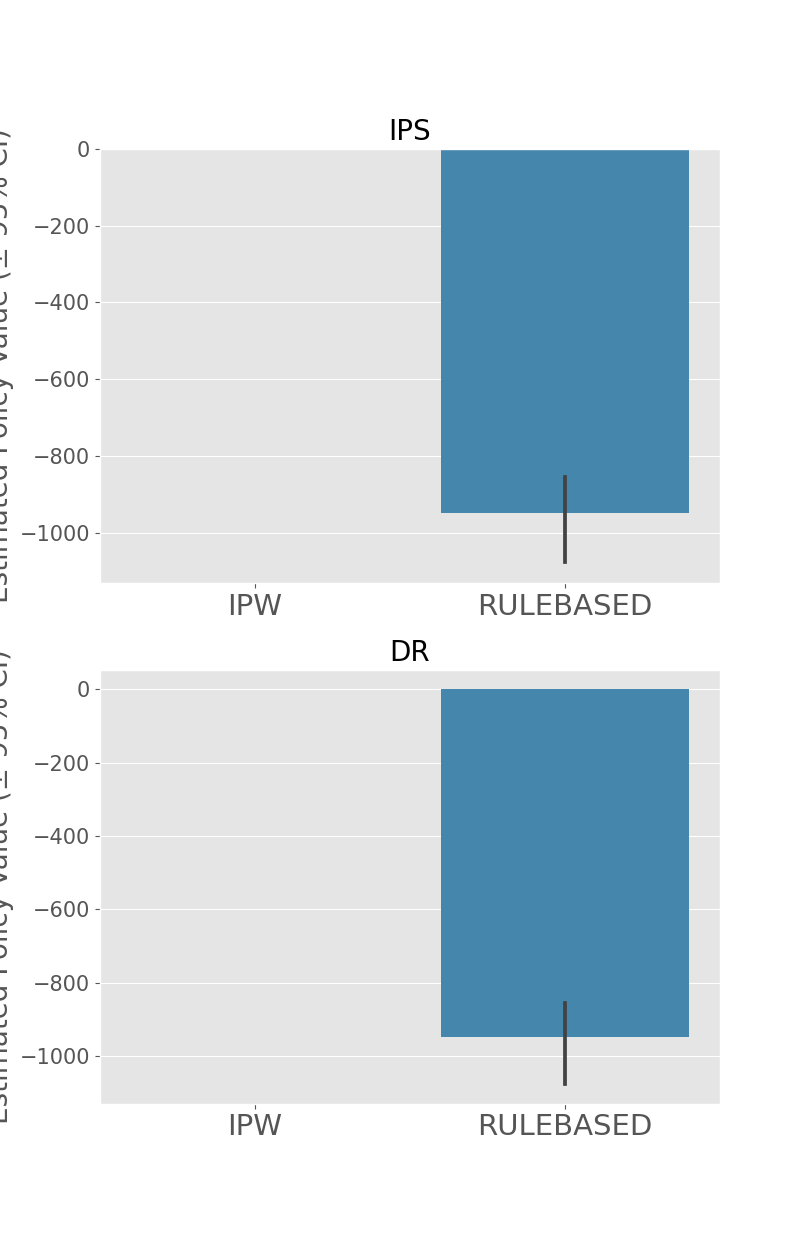
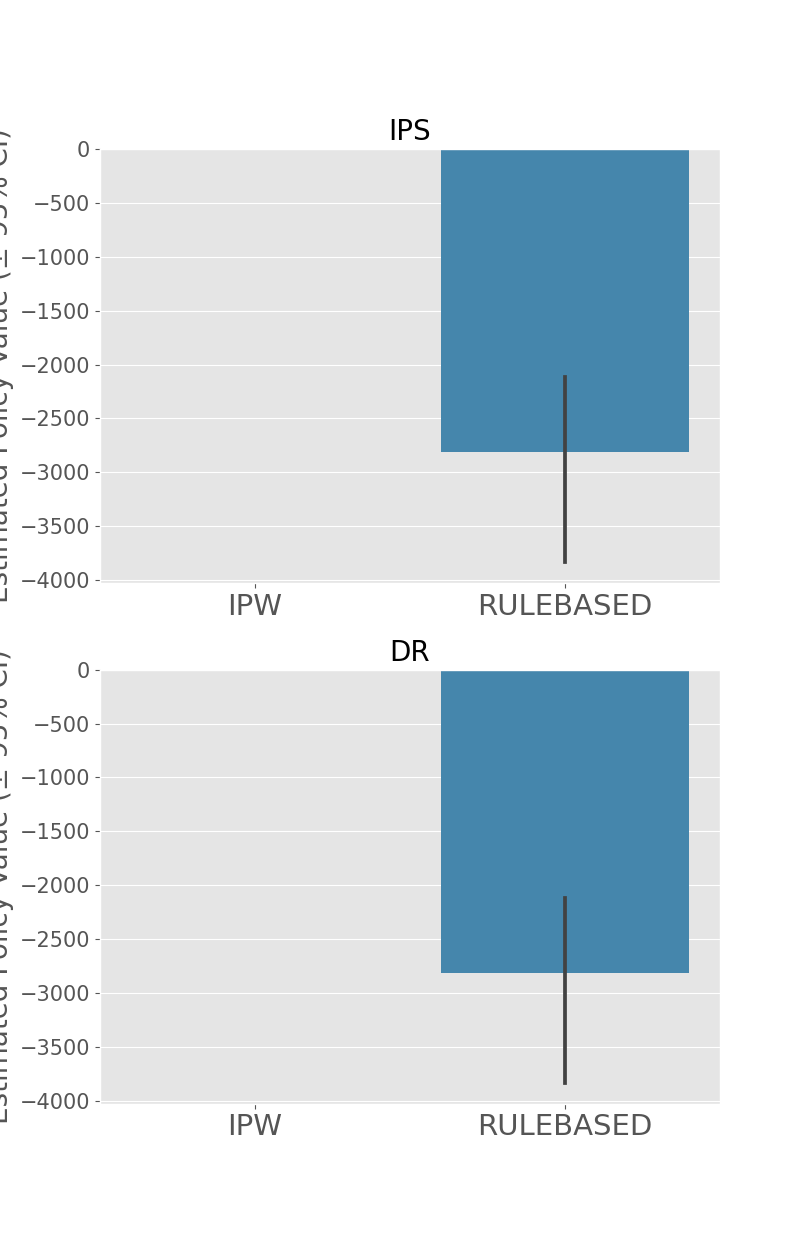
パラメータ調整

diff --git a/pokemon_ml_design/evaluate.py b/pokemon_ml_design/evaluate.py
@@ -19,39 +19,39 @@ from pokemon_ml_design.actions import ACTIONS
 
 
 def evaluate(validation_data: BanditFeedback, action_choices: Dict[str, List]) -> None:
-    # TODO: 意味を理解する
-    # TODO: 必要に応じて分離する
-
-    # DR推定量に必要な目的変数予測モデルを得る
-    # opeモジュールに実装されている`RegressionModel`に好みの機械学習手法を与えば良い
-    regression_model = RegressionModel(
-        n_actions=len(ACTIONS),
-        base_model=LogisticRegression(C=100, random_state=12345, max_iter=1000), # ロジスティック回帰を使用
-    )
-
-    # `fit_predict`メソッドにより、バリデーションデータにおける期待報酬を推定
-    estimated_rewards_by_reg_model = regression_model.fit_predict(
-        context=validation_data["context"], # 特徴量
-        action=validation_data["action"], # 過去の意思決定モデル\pi_bによる行動選択
-        reward=validation_data["reward"], # 観測される目的変数
-        random_state=12345,
-    )
-
-    # 意思決定モデルの性能評価を一気通貫で行うための`OffPolicyEvaluation`を定義する
-    ope = OffPolicyEvaluation(
-        bandit_feedback=validation_data, # バリデーションデータ
-        ope_estimators=[IPS(estimator_name="IPS"), DR()] # 使用する推定量
-    )
-
-    # IPWLearner+ロジスティック回帰の性能をIPS推定量とDR推定量で評価
-    ope.visualize_off_policy_estimates_of_multiple_policies(
-        policy_name_list=list(action_choices.keys()),
-        action_dist_list=list(action_choices.values()),
-        estimated_rewards_by_reg_model=estimated_rewards_by_reg_model, # DR推定量に必要な期待報酬推定値
-        random_state=12345,
-        fig_dir=Path('./resources/output/'),
-    )
-    plt.clf()
+    # # TODO: 意味を理解する
+    # # TODO: 必要に応じて分離する
+    #
+    # # DR推定量に必要な目的変数予測モデルを得る
+    # # opeモジュールに実装されている`RegressionModel`に好みの機械学習手法を与えば良い
+    # regression_model = RegressionModel(
+    #     n_actions=len(ACTIONS),
+    #     base_model=LogisticRegression(C=100, random_state=12345, max_iter=1000), # ロジスティック回帰を使用
+    # )
+    #
+    # # `fit_predict`メソッドにより、バリデーションデータにおける期待報酬を推定
+    # estimated_rewards_by_reg_model = regression_model.fit_predict(
+    #     context=validation_data["context"], # 特徴量
+    #     action=validation_data["action"], # 過去の意思決定モデル\pi_bによる行動選択
+    #     reward=validation_data["reward"], # 観測される目的変数
+    #     random_state=12345,
+    # )
+    #
+    # # 意思決定モデルの性能評価を一気通貫で行うための`OffPolicyEvaluation`を定義する
+    # ope = OffPolicyEvaluation(
+    #     bandit_feedback=validation_data, # バリデーションデータ
+    #     ope_estimators=[IPS(estimator_name="IPS"), DR()] # 使用する推定量
+    # )
+    #
+    # # IPWLearner+ロジスティック回帰の性能をIPS推定量とDR推定量で評価
+    # ope.visualize_off_policy_estimates_of_multiple_policies(
+    #     policy_name_list=list(action_choices.keys()),
+    #     action_dist_list=list(action_choices.values()),
+    #     estimated_rewards_by_reg_model=estimated_rewards_by_reg_model, # DR推定量に必要な期待報酬推定値
+    #     random_state=12345,
+    #     fig_dir=Path('./resources/output/'),
+    # )
+    # plt.clf()
 
     capture_dificulties = defaultdict(list)
     rewards = defaultdict(list)

diff --git a/pokemon_ml_design/model.py b/pokemon_ml_design/model.py
@@ -4,6 +4,7 @@ from typing import List
 import numpy as np
 from obp.policy import IPWLearner
 from obp.types import BanditFeedback
+from sklearn.preprocessing import StandardScaler
 from sklearn.linear_model import LogisticRegression
 
 from pokemon_ml_design.actions import ACTIONS
@@ -24,19 +25,24 @@ class IPWModel(BaseModel):
     def __init__(self) -> None:
         self._model = IPWLearner(
             n_actions=len(ACTIONS),
-            base_classifier=LogisticRegression(C=100, random_state=615, max_iter=10000)
+            base_classifier=LogisticRegression(C=100, random_state=615, max_iter=1000)
         )
+        self._scaler = StandardScaler()
 
     def fit(self, data: BanditFeedback) -> None:
+        self._scaler.fit(data["context"])
+        scaled_context = self._scaler.transform(data["context"])
+
         self._model.fit(
-            context=data["context"],
+            context=scaled_context[:, 1:],  # TODO: リファクタ
             action=data["action"],
             reward=data["reward"],
             pscore=data["pscore"],
         )
 
     def predict(self, context: np.ndarray) -> np.ndarray:
-        return self._model.predict(context=context)
+        scaled_context = self._scaler.transform(context)
+        return self._model.predict(context=scaled_context[:, 1:])
 
 
 class RuleBasedModel(BaseModel):

diff --git a/pokemon_ml_design/actions.py b/pokemon_ml_design/actions.py
@@ -12,8 +12,8 @@ class Action:
 
 ACTIONS: List[Action] = [
     Action(label='逃げる', performance=-math.inf, cost=0),
-    Action(label='モンスターボールを投げる', performance=0, cost=300),
-    Action(label='スーパーボールを投げる', performance=80, cost=1000),
-    Action(label='ハイパーボールを投げる', performance=200, cost=3000),
-    Action(label='マスターボールを投げる', performance=math.inf, cost=40000),
+    Action(label='モンスターボールを投げる', performance=0, cost=500),
+    Action(label='スーパーボールを投げる', performance=100, cost=500),
+    Action(label='ハイパーボールを投げる', performance=200, cost=5000),
+    Action(label='マスターボールを投げる', performance=math.inf, cost=20000),
 ]

diff --git a/pokemon_ml_design/policy.py b/pokemon_ml_design/policy.py
@@ -10,13 +10,15 @@ def rule_based_policy(pokemon_id: int) -> Tuple:
     reward = pokemon_zukan.get_reward(pokemon_id)
     name = pokemon_zukan.get_name(pokemon_id)
 
-    if name == 'ミュウツー':
-        return 0, 0, 0, 0.2, 0.8
+    # if name == 'ミュウツー':
+    #     return 0, 0, 0, 0.2, 0.8
+    #
+    # if capture_dificulty >= 200 and reward >= 300:
+    #     return 0, 0.1, 0.2, 0.7, 0
+    #
+    # if capture_dificulty < 100 and reward < 200:
+    #     return 0.5, 0.4, 0.1, 0, 0
+    #
+    # return 0.1, 0.3, 0.6, 0, 0
 
-    if capture_dificulty >= 200 and reward >= 300:
-        return 0, 0.1, 0.2, 0.7, 0
-
-    if capture_dificulty < 100 and reward < 200:
-        return 0.5, 0.4, 0.1, 0, 0
-
-    return 0.1, 0.3, 0.6, 0, 0
+    return 0.2, 0.2, 0.2, 0.2, 0.2

diff --git a/main.py b/main.py
@@ -3,16 +3,18 @@ from pokemon_ml_design.model import IPWModel, RuleBasedModel
 from pokemon_ml_design.evaluate import evaluate
 
 def main():
+    print('load')
     training_data, validation_data = synthesize_data()
 
     # TODO: モデルを追加しやすくする
-
+    print('train')
     ipw_model = IPWModel()
     rule_based_model = RuleBasedModel()
 
     ipw_model.fit(data=training_data)
     rule_based_model.fit(data=training_data)
 
+    print('evaluate')
     action_choice_by_ipw_model = ipw_model.predict(validation_data['context'])
     action_choice_by_rule_based_model = rule_based_model.predict(validation_data['context'])
 

diff --git a/pokemon_ml_design/synthesize_data.py b/pokemon_ml_design/synthesize_data.py
@@ -36,6 +36,10 @@ def _reward_function(
             l.append(capture_probability)
         capture_probabilities.append(l)
     capture_probabilities = np.array(capture_probabilities)
+
+    for i in range(5):
+        print(i, capture_probabilities[:, i].mean())
+
     return capture_probabilities
 
 
@@ -86,4 +90,5 @@ def synthesize_data() -> Tuple[BanditFeedback, BanditFeedback]:
     )
     training_data = _post_process(dataset.obtain_batch_bandit_feedback(n_rounds=10000))
     validation_data = _post_process(dataset.obtain_batch_bandit_feedback(n_rounds=1000))
+
     return training_data, validation_data
